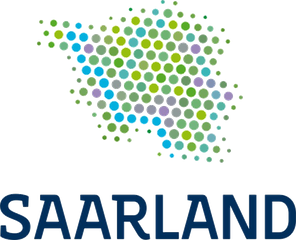
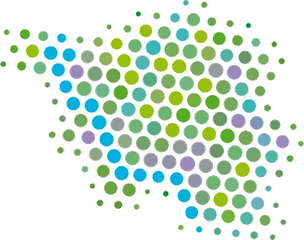
Wappen-Badges im Ortsband auf einheitliche Höhe statt feste Box umstellen
Merzig-Wadern und Saarland sind im Querformat und wirkten in der für
Hochformat-Wappen gedachten festen Box winzig und gestaucht. Alle
Badges sind jetzt echte <img>-Elemente mit fester Höhe (statt
CSS-Hintergrundbild in fester Box), sodass jedes Logo proportional
korrekt und in einheitlicher Größe erscheint. Das Saarland-Logo zeigt
außerdem nur noch die Kartengrafik ohne den bei dieser Größe
unleserlichen Schriftzug.

diff --git a/index.html b/index.html
@@ -815,17 +815,17 @@
     <div class="marquee" id="orteMarquee">
       <div class="marquee-track">
         <!-- Der Inhalt wird per JS für den nahtlosen Lauf verdoppelt -->
-        <a class="marquee-item" href="https://bietzen.eu/" target="_blank" rel="noopener"><span class="wappen wappen-bietzen" aria-hidden="true"></span><span class="ort-text"><strong>Bietzen</strong>Zentralort des Bietzerbergs</span></a>
+        <a class="marquee-item" href="https://bietzen.eu/" target="_blank" rel="noopener"><img class="wappen" src="assets/wappen-bietzen.png" alt=""><span class="ort-text"><strong>Bietzen</strong>Zentralort des Bietzerbergs</span></a>
         <span class="marquee-sep" aria-hidden="true">♪</span>
-        <a class="marquee-item" href="https://www.merzig.de/leben-in-merzig/ortsteile/harlingen/" target="_blank" rel="noopener"><span class="wappen wappen-harlingen" aria-hidden="true"></span><span class="ort-text"><strong>Harlingen</strong>Die Sonnenseite Merzigs</span></a>
+        <a class="marquee-item" href="https://www.merzig.de/leben-in-merzig/ortsteile/harlingen/" target="_blank" rel="noopener"><img class="wappen" src="assets/wappen-harlingen.png" alt=""><span class="ort-text"><strong>Harlingen</strong>Die Sonnenseite Merzigs</span></a>
         <span class="marquee-sep" aria-hidden="true">♪</span>
-        <a class="marquee-item" href="https://www.merzig.de/leben-in-merzig/ortsteile/menningen/" target="_blank" rel="noopener"><span class="wappen wappen-menningen" aria-hidden="true"></span><span class="ort-text"><strong>Menningen</strong>Am Wolferskopf</span></a>
+        <a class="marquee-item" href="https://www.merzig.de/leben-in-merzig/ortsteile/menningen/" target="_blank" rel="noopener"><img class="wappen" src="assets/wappen-menningen.png" alt=""><span class="ort-text"><strong>Menningen</strong>Am Wolferskopf</span></a>
         <span class="marquee-sep" aria-hidden="true">♪</span>
-        <a class="marquee-item" href="https://www.merzig.de/" target="_blank" rel="noopener"><span class="wappen wappen-merzig" aria-hidden="true"></span><span class="ort-text"><strong>Merzig</strong>Unsere Kreisstadt an der Saar</span></a>
+        <a class="marquee-item" href="https://www.merzig.de/" target="_blank" rel="noopener"><img class="wappen" src="assets/wappen-merzig.png" alt=""><span class="ort-text"><strong>Merzig</strong>Unsere Kreisstadt an der Saar</span></a>
         <span class="marquee-sep" aria-hidden="true">♪</span>
-        <a class="marquee-item" href="https://www.merzig-wadern.de/" target="_blank" rel="noopener"><span class="wappen wappen-merzig-wadern" aria-hidden="true"></span><span class="ort-text"><strong>Merzig-Wadern</strong>Unser Landkreis</span></a>
+        <a class="marquee-item" href="https://www.merzig-wadern.de/" target="_blank" rel="noopener"><img class="wappen" src="assets/wappen-merzig-wadern.png" alt=""><span class="ort-text"><strong>Merzig-Wadern</strong>Unser Landkreis</span></a>
         <span class="marquee-sep" aria-hidden="true">♪</span>
-        <a class="marquee-item" href="https://www.saarland.de/" target="_blank" rel="noopener"><span class="wappen wappen-saarland" aria-hidden="true"></span><span class="ort-text"><strong>Saarland</strong>Unsere Heimat</span></a>
+        <a class="marquee-item" href="https://www.saarland.de/" target="_blank" rel="noopener"><img class="wappen" src="assets/wappen-saarland.png" alt=""><span class="ort-text"><strong>Saarland</strong>Unsere Heimat</span></a>
         <span class="marquee-sep" aria-hidden="true">♪</span>
       </div>
     </div>

diff --git a/assets/css/index.css b/assets/css/index.css
@@ -863,18 +863,11 @@
 
 
   .wappen{
-    width:52px; height:58px; flex-shrink:0;
-    background-size:contain; background-repeat:no-repeat; background-position:center;
+    height:58px; width:auto; max-width:100px; flex-shrink:0; display:block;
     filter:drop-shadow(0 3px 6px rgba(0,0,0,0.4));
     transition:transform 0.2s ease;
   }
   a.marquee-item:hover .wappen{transform:translateY(-2px) scale(1.06);}
-  .wappen-bietzen{background-image:url("../wappen-bietzen.png");}
-  .wappen-harlingen{background-image:url("../wappen-harlingen.png");}
-  .wappen-menningen{background-image:url("../wappen-menningen.png");}
-  .wappen-merzig{background-image:url("../wappen-merzig.png");}
-  .wappen-merzig-wadern{background-image:url("../wappen-merzig-wadern.png");}
-  .wappen-saarland{background-image:url("../wappen-saarland.png");}
 
   /* ---------- LEGAL MODALS (Impressum / Datenschutz) ---------- */
   .modal-overlay{
